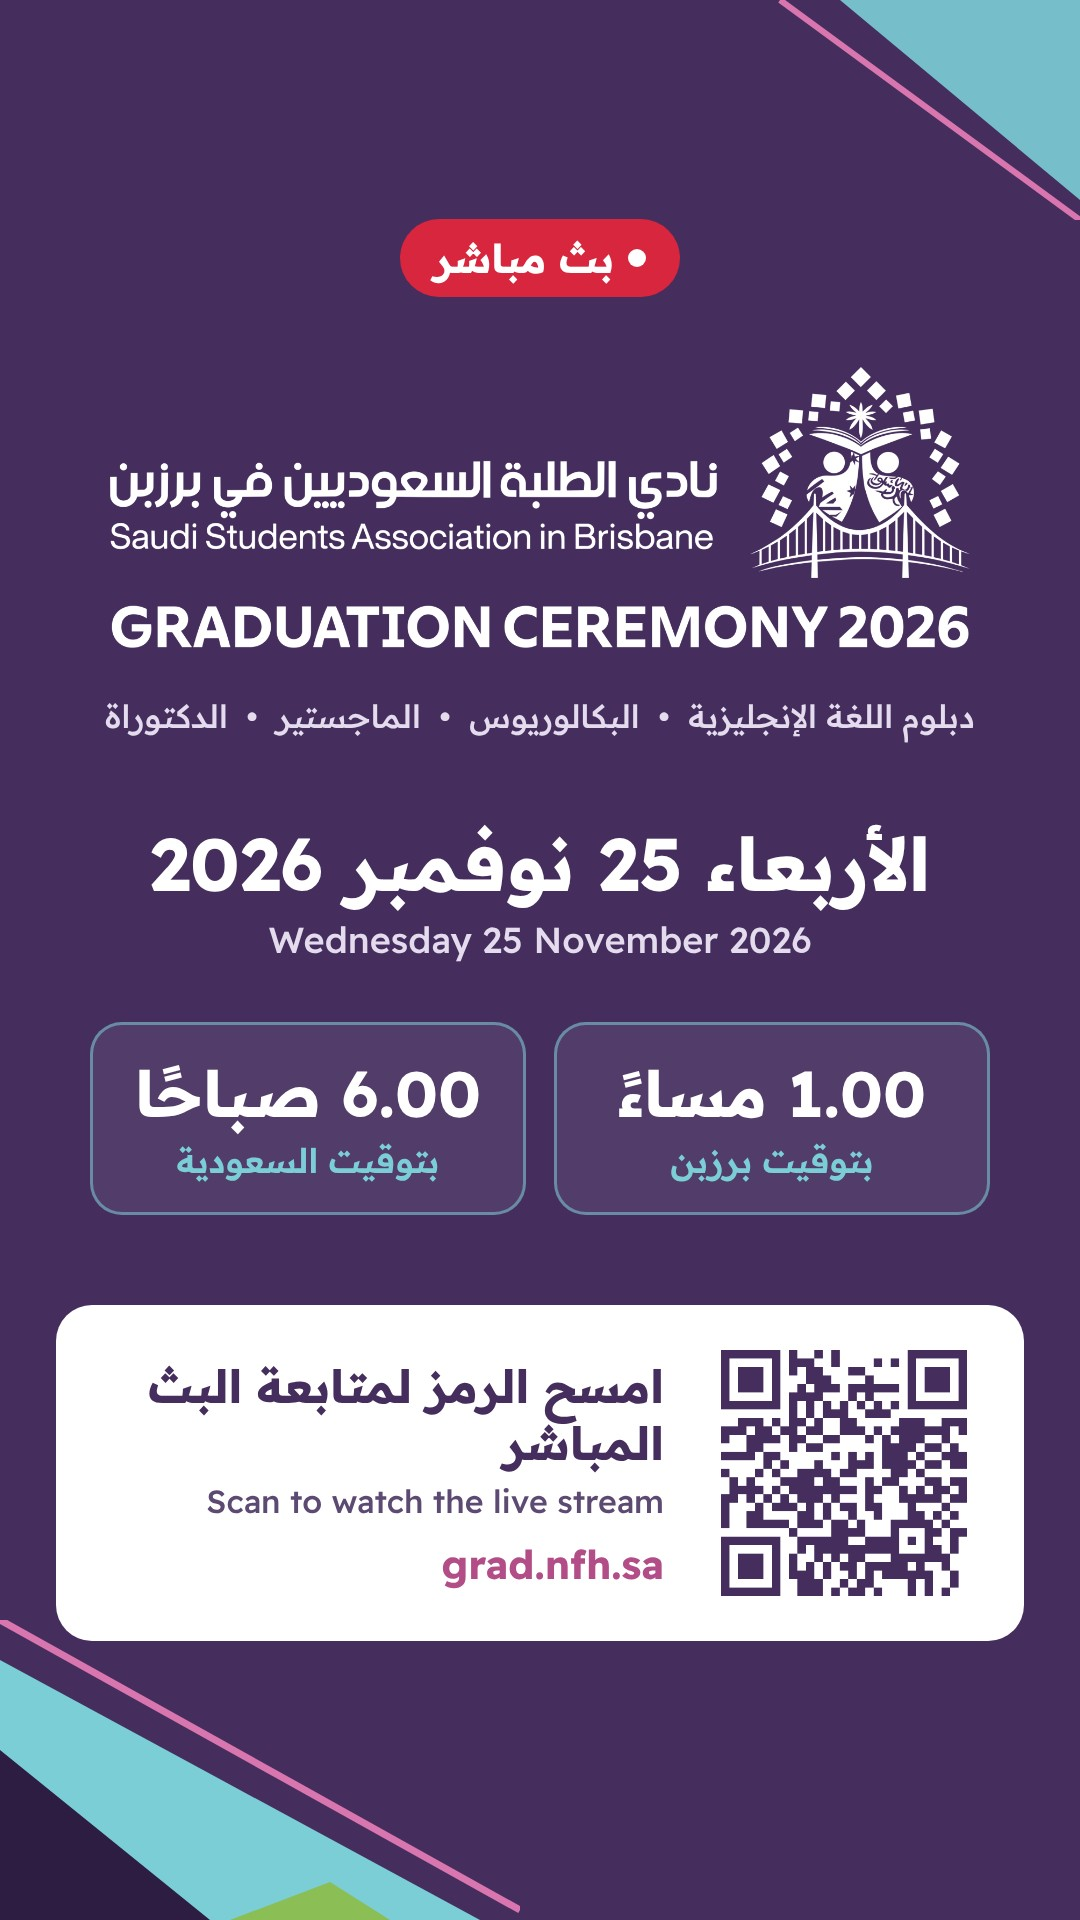
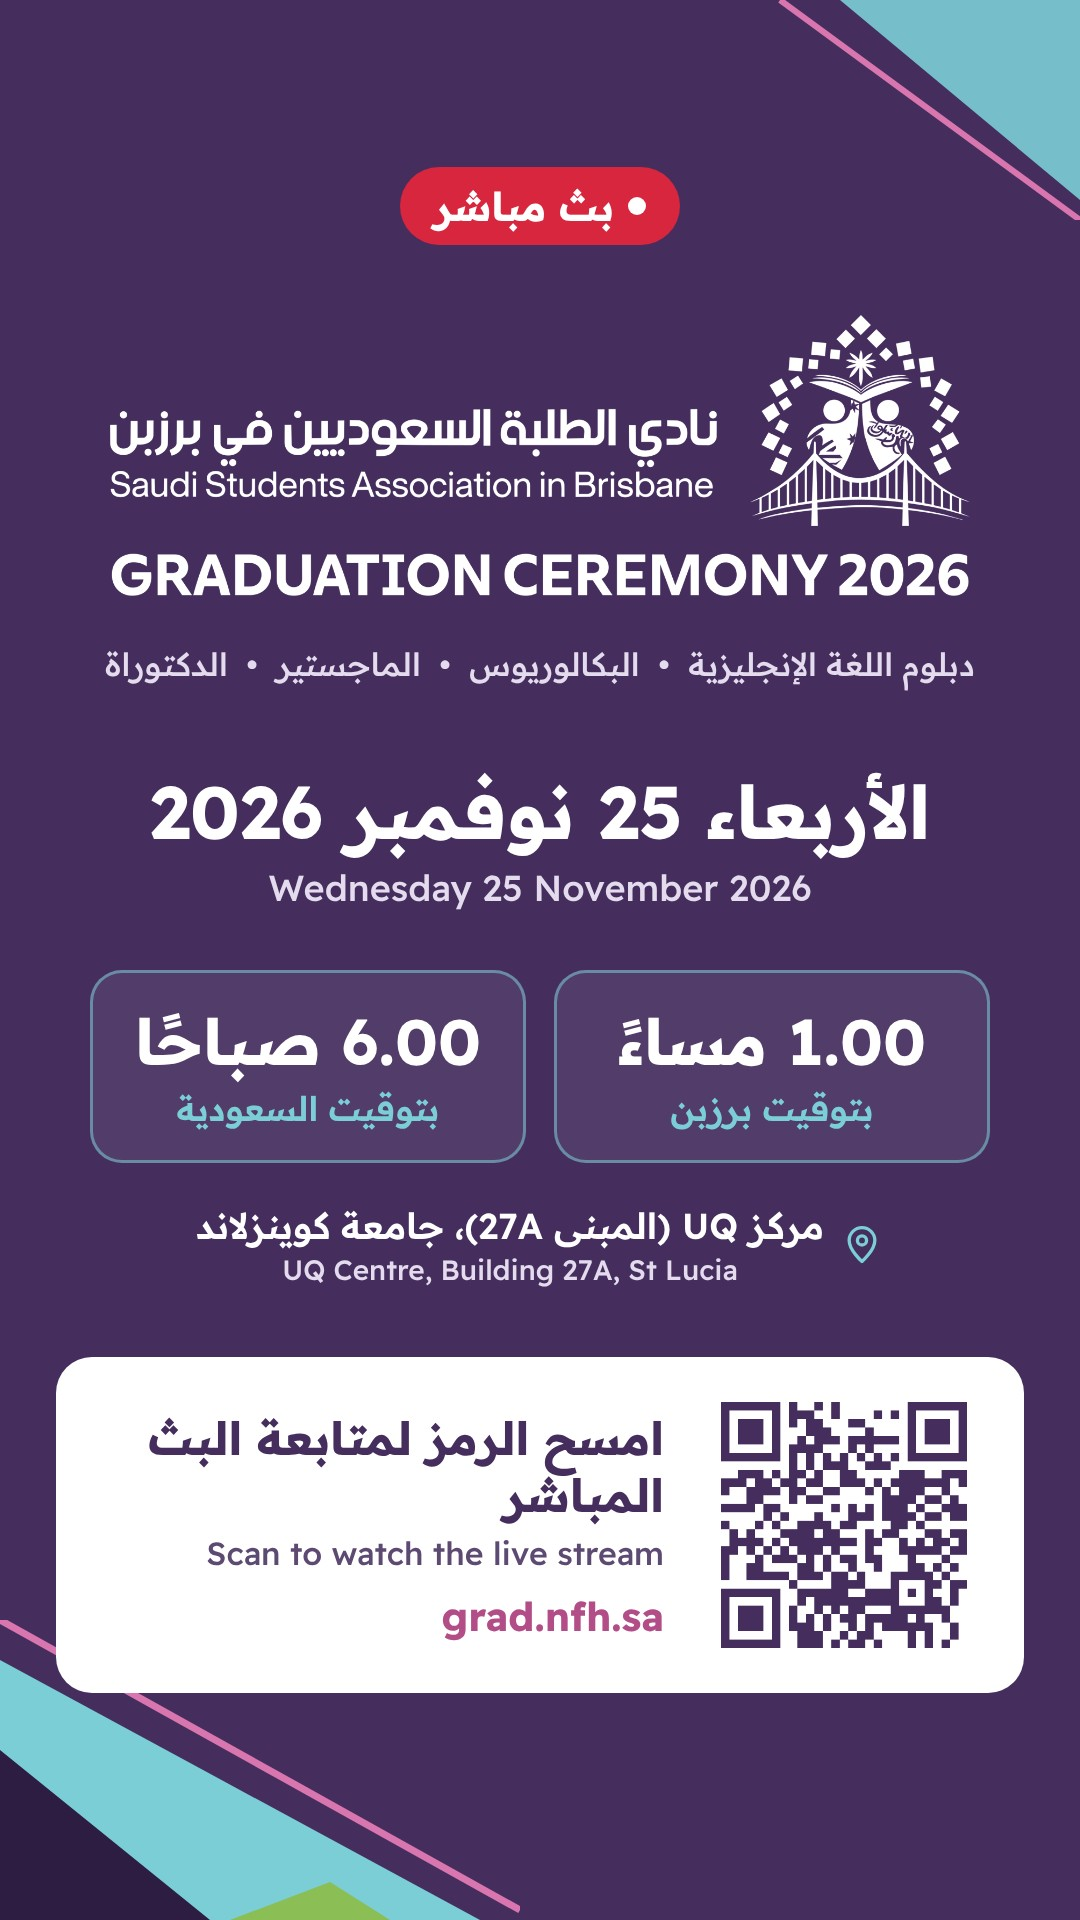
Add venue, map, FAQ venue, calendar location, university order

diff --git a/index.html b/index.html
@@ -4,7 +4,7 @@
 <meta charset="utf-8">
 <meta name="viewport" content="width=device-width, initial-scale=1">
 <title>حفل التخرج 2026 مباشر</title>
-<meta name="description" content="بث مباشر لحفل تخريج الطلبة السعوديين في برزبن، الأربعاء 25 نوفمبر 2026، 1.00 مساءً بتوقيت برزبن (6.00 صباحًا بتوقيت السعودية).">
+<meta name="description" content="حفل تخريج الطلبة السعوديين في برزبن، الأربعاء 25 نوفمبر 2026، 1.00 مساءً بتوقيت برزبن (6.00 صباحًا بتوقيت السعودية)، في مركز UQ بجامعة كوينزلاند، مع بث مباشر.">
 <meta name="theme-color" content="#452E5E">
 <link rel="canonical" href="https://grad.nfh.sa/">
 <link rel="icon" type="image/png" href="favicon.png">
@@ -82,6 +82,21 @@ span.watch{border:2px dashed rgba(123,206,213,.6);color:#fff}
 .act svg{width:26px;height:26px;flex:none;color:var(--teal)}
 .act b{display:block;font-size:17px;font-weight:600;line-height:1.3}
 .act .en{display:block;color:#E4DCEE;font-size:13px;text-align:right}
+.venue .wrap{padding-top:clamp(28px,4vw,48px);padding-bottom:clamp(28px,4vw,48px);display:grid;grid-template-columns:minmax(0,1fr) minmax(0,1.3fr);gap:24px 40px;align-items:center}
+.venue h2{margin:0 0 10px;font-size:clamp(26px,3.2vw,36px);line-height:1.2;display:flex;gap:12px;align-items:baseline;flex-wrap:wrap}
+.venue .vname{margin:0;font-size:22px;font-weight:700}
+.venue p{margin:2px 0 0}
+.venue .vtext>.en{display:block;text-align:right;margin-top:4px}
+.vacts{display:flex;gap:10px;flex-wrap:wrap;margin-top:16px}
+.vbtn{display:inline-flex;align-items:center;gap:8px;min-height:48px;padding:8px 18px;border-radius:12px;background:var(--ink);color:#fff;font-weight:700;text-decoration:none}
+.vbtn .en{color:#E4DCEE}
+.vbtn.alt{background:#fff;color:var(--ink);border:2px solid var(--ink)}
+.vbtn.alt .en{color:var(--soft)}
+.vbtn svg{width:20px;height:20px;flex:none}
+.vbtn:focus-visible{outline:3px solid var(--teal);outline-offset:2px}
+.map{position:relative;aspect-ratio:16/10;border-radius:16px;overflow:hidden;background:var(--teal-l);border:2px solid var(--teal-l)}
+.map iframe{position:absolute;inset:0;width:100%;height:100%;border:0}
+@media(max-width:800px){.venue .wrap{grid-template-columns:minmax(0,1fr)}.map{aspect-ratio:4/3}}
 .booth{background:var(--teal-l)}
 .booth .wrap{padding-top:28px;padding-bottom:28px;display:flex;justify-content:space-between;align-items:center;gap:16px 32px;flex-wrap:wrap}
 .booth h2{margin:0;font-size:clamp(24px,3vw,32px);line-height:1.2}
@@ -214,9 +229,25 @@ footer .names{display:flex;flex-direction:column}
 <span class="watch" id="watch"><span>سيُنشر رابط البث المباشر هنا قبل بدء الحفل</span><span class="en" lang="en">The live stream link will be posted here before the ceremony starts</span></span>
 <div class="acts">
 <a class="act" href="event.ics" download="saudi-graduation-2026.ics"><svg viewBox="0 0 24 24" fill="none" stroke="currentColor" stroke-width="1.8" stroke-linecap="round" stroke-linejoin="round" aria-hidden="true"><rect x="3" y="4.5" width="18" height="16" rx="2.5"/><path d="M3 9.5h18M8 2.5v4M16 2.5v4M12 12.5v5M9.5 15h5"/></svg><span><b>أضف إلى التقويم</b><span class="en" lang="en">Apple and Outlook calendar</span></span></a>
-<a class="act" href="https://calendar.google.com/calendar/render?action=TEMPLATE&amp;text=%D8%AD%D9%81%D9%84%20%D8%AA%D8%AE%D8%B1%D9%8A%D8%AC%20%D8%A7%D9%84%D8%B7%D9%84%D8%A8%D8%A9%20%D8%A7%D9%84%D8%B3%D8%B9%D9%88%D8%AF%D9%8A%D9%8A%D9%86%20%D9%81%D9%8A%20%D8%A8%D8%B1%D8%B2%D8%A8%D9%86%202026%20%7C%20Saudi%20Graduation%20Ceremony%202026&amp;dates=20261125T130000/20261125T143000&amp;ctz=Australia/Brisbane&amp;details=%D8%A7%D9%84%D8%A8%D8%AB%20%D8%A7%D9%84%D9%85%D8%A8%D8%A7%D8%B4%D8%B1%3A%20https%3A//grad.nfh.sa/%0A%D9%8A%D8%A8%D8%AF%D8%A3%201.00%20%D9%85%D8%B3%D8%A7%D8%A1%D9%8B%20%D8%A8%D8%AA%D9%88%D9%82%D9%8A%D8%AA%20%D8%A8%D8%B1%D8%B2%D8%A8%D9%86%20%286.00%20%D8%B5%D8%A8%D8%A7%D8%AD%D9%8B%D8%A7%20%D8%A8%D8%AA%D9%88%D9%82%D9%8A%D8%AA%20%D8%A7%D9%84%D8%B3%D8%B9%D9%88%D8%AF%D9%8A%D8%A9%29%0A%0ALive%20stream%3A%20https%3A//grad.nfh.sa/%0AStarts%201.00%20pm%20Brisbane%20time%20%286.00%20am%20Saudi%20time%29&amp;location=Brisbane%2C%20Queensland%20%7C%20https%3A//grad.nfh.sa/" target="_blank" rel="noopener"><svg viewBox="0 0 24 24" fill="none" stroke="currentColor" stroke-width="1.8" stroke-linecap="round" stroke-linejoin="round" aria-hidden="true"><rect x="3" y="4.5" width="18" height="16" rx="2.5"/><path d="M3 9.5h18M8 2.5v4M16 2.5v4M8 13.5h2M14 13.5h2M8 17h2"/></svg><span><b>تقويم Google</b><span class="en" lang="en">Google Calendar</span></span></a>
+<a class="act" href="https://calendar.google.com/calendar/render?action=TEMPLATE&amp;text=%D8%AD%D9%81%D9%84%20%D8%AA%D8%AE%D8%B1%D9%8A%D8%AC%20%D8%A7%D9%84%D8%B7%D9%84%D8%A8%D8%A9%20%D8%A7%D9%84%D8%B3%D8%B9%D9%88%D8%AF%D9%8A%D9%8A%D9%86%20%D9%81%D9%8A%20%D8%A8%D8%B1%D8%B2%D8%A8%D9%86%202026%20%7C%20Saudi%20Graduation%20Ceremony%202026&amp;dates=20261125T130000/20261125T143000&amp;ctz=Australia/Brisbane&amp;details=%D8%A7%D9%84%D9%85%D9%83%D8%A7%D9%86%3A%20%D9%85%D8%B1%D9%83%D8%B2%20UQ%20%28%D8%A7%D9%84%D9%85%D8%A8%D9%86%D9%89%2027A%29%D8%8C%20%D8%AC%D8%A7%D9%85%D8%B9%D8%A9%20%D9%83%D9%88%D9%8A%D9%86%D8%B2%D9%84%D8%A7%D9%86%D8%AF%0A%D8%A7%D9%84%D8%A8%D8%AB%20%D8%A7%D9%84%D9%85%D8%A8%D8%A7%D8%B4%D8%B1%3A%20https%3A//grad.nfh.sa/%0A%D9%8A%D8%A8%D8%AF%D8%A3%201.00%20%D9%85%D8%B3%D8%A7%D8%A1%D9%8B%20%D8%A8%D8%AA%D9%88%D9%82%D9%8A%D8%AA%20%D8%A8%D8%B1%D8%B2%D8%A8%D9%86%20%286.00%20%D8%B5%D8%A8%D8%A7%D8%AD%D9%8B%D8%A7%20%D8%A8%D8%AA%D9%88%D9%82%D9%8A%D8%AA%20%D8%A7%D9%84%D8%B3%D8%B9%D9%88%D8%AF%D9%8A%D8%A9%29%0A%0AVenue%3A%20UQ%20Centre%20%28Building%2027A%29%2C%20St%20Lucia%0ALive%20stream%3A%20https%3A//grad.nfh.sa/%0AStarts%201.00%20pm%20Brisbane%20time%20%286.00%20am%20Saudi%20time%29&amp;location=UQ%20Centre%20%28Building%2027A%29%2C%20Union%20Road%2C%20The%20University%20of%20Queensland%2C%20St%20Lucia%20QLD%204067" target="_blank" rel="noopener"><svg viewBox="0 0 24 24" fill="none" stroke="currentColor" stroke-width="1.8" stroke-linecap="round" stroke-linejoin="round" aria-hidden="true"><rect x="3" y="4.5" width="18" height="16" rx="2.5"/><path d="M3 9.5h18M8 2.5v4M16 2.5v4M8 13.5h2M14 13.5h2M8 17h2"/></svg><span><b>تقويم Google</b><span class="en" lang="en">Google Calendar</span></span></a>
 <button class="act" type="button" id="share"><svg viewBox="0 0 24 24" fill="none" stroke="currentColor" stroke-width="1.8" stroke-linecap="round" stroke-linejoin="round" aria-hidden="true"><circle cx="18" cy="5" r="2.5"/><circle cx="6" cy="12" r="2.5"/><circle cx="18" cy="19" r="2.5"/><path d="M8.2 10.8l7.6-4.4M8.2 13.2l7.6 4.4"/></svg><span><b id="shareAr">شارك الرابط</b><span class="en" lang="en" id="shareEn">Share the link</span></span></button>
 </div>
+</div>
+</section>
+
+<section class="venue" aria-labelledby="venueTitle">
+<div class="wrap">
+<div class="vtext">
+<h2 id="venueTitle">مكان الحفل <span class="en" lang="en">Venue</span></h2>
+<p class="vname">مركز UQ (المبنى 27A)</p>
+<p>شارع Union Road، جامعة كوينزلاند، سانت لوسيا، برزبن</p>
+<span class="en" lang="en">UQ Centre (Building 27A), Union Road, The University of Queensland, St Lucia QLD 4067</span>
+<div class="vacts">
+<a class="vbtn" href="https://www.google.com/maps/search/?api=1&amp;query=UQ%20Centre%20Building%20(27A)%2C%20St%20Lucia%20QLD%204067" target="_blank" rel="noopener"><svg viewBox="0 0 24 24" fill="none" stroke="currentColor" stroke-width="1.8" stroke-linecap="round" stroke-linejoin="round" aria-hidden="true"><path d="M12 21s-7-6.2-7-11.5A7 7 0 0 1 19 9.5C19 14.8 12 21 12 21z"/><circle cx="12" cy="9.5" r="2.5"/></svg>خرائط Google <span class="en" lang="en">Google Maps</span></a>
+<a class="vbtn alt" href="https://maps.apple.com/?q=UQ%20Centre%20Building%2027A&amp;address=Union%20Road%2C%20St%20Lucia%20QLD%204067" target="_blank" rel="noopener"><svg viewBox="0 0 24 24" fill="none" stroke="currentColor" stroke-width="1.8" stroke-linecap="round" stroke-linejoin="round" aria-hidden="true"><path d="M12 21s-7-6.2-7-11.5A7 7 0 0 1 19 9.5C19 14.8 12 21 12 21z"/><circle cx="12" cy="9.5" r="2.5"/></svg>خرائط Apple <span class="en" lang="en">Apple Maps</span></a>
+</div>
+</div>
+<div class="map"><iframe title="خريطة مكان الحفل: مركز UQ في جامعة كوينزلاند" src="https://www.google.com/maps?q=UQ%20Centre%20Building%20(27A)%2C%20St%20Lucia%20QLD%204067&amp;z=16&amp;output=embed" loading="lazy" referrerpolicy="no-referrer-when-downgrade"></iframe></div>
 </div>
 </section>
 
@@ -246,6 +277,7 @@ footer .names{display:flex;flex-direction:column}
 <div><h2 id="faqTitle">أسئلة شائعة</h2></div>
 <div class="en" lang="en"><b>Questions</b>Common questions</div>
 </div>
+<details><summary><span>أين يقام الحفل؟<span class="en" lang="en">Where is the ceremony?</span></span></summary><div class="ans"><p>في مركز UQ (المبنى 27A)، شارع Union Road، جامعة كوينزلاند، سانت لوسيا. <a href="https://www.google.com/maps/search/?api=1&amp;query=UQ%20Centre%20Building%20(27A)%2C%20St%20Lucia%20QLD%204067" target="_blank" rel="noopener">افتح الموقع في خرائط Google</a></p><span class="en" lang="en">UQ Centre (Building 27A), Union Road, The University of Queensland, St Lucia QLD 4067.</span></div></details>
 <details><summary><span>متى يبدأ الحفل؟<span class="en" lang="en">When does it start?</span></span></summary><div class="ans"><p>الأربعاء 25 نوفمبر 2026، الساعة 1.00 مساءً بتوقيت برزبن (6.00 صباحًا بتوقيت السعودية). يبدأ البث قبل الحفل بنصف ساعة تقريبًا.</p><span class="en" lang="en">Wednesday 25 November 2026, 1.00 pm Brisbane time (6.00 am Saudi time). The stream starts about 30 minutes earlier.</span></div></details>
 <details><summary><span>كيف أشاهد البث؟<span class="en" lang="en">How do I watch?</span></span></summary><div class="ans"><p>يظهر البث في أعلى هذه الصفحة عند بدئه، ويمكن مشاهدته على يوتيوب أيضًا. لا تحتاج إلى حساب أو تطبيق.</p><span class="en" lang="en">The video appears at the top of this page when it starts, and on YouTube. No account or app needed.</span></div></details>
 <details><summary><span>البث لا يعمل، ماذا أفعل؟<span class="en" lang="en">The stream is not working</span></span></summary><div class="ans"><p>حدّث الصفحة، أو افتح البث مباشرة على يوتيوب، أو استخدم رابط Zoom الاحتياطي الظاهر تحت البث.</p><span class="en" lang="en">Refresh the page, open it on YouTube, or use the Zoom backup link under the video.</span></div></details>

diff --git a/frames.html b/frames.html
@@ -144,16 +144,20 @@ footer a{color:var(--ink)}
 <label class="lbl" for="uni">الجامعة <span class="en" lang="en">University (graduate frames only)</span></label>
 <select id="uni">
 <option value="">بدون</option>
-<option value="0">جامعة كوينزلاند</option>
-<option value="1">جامعة كوينزلاند للتكنولوجيا</option>
-<option value="2">جامعة غريفيث</option>
-<option value="3">الجامعة الكاثوليكية الأسترالية</option>
-<option value="4">جامعة جنوب كوينزلاند</option>
-<option value="5">جامعة صن شاين كوست</option>
-<option value="6">جامعة سنترال كوينزلاند</option>
-<option value="7">جامعة جيمس كوك</option>
-<option value="8">جامعة بوند</option>
-<option value="9">جامعة ساوثرن كروس</option>
+<optgroup label="الجامعات الرئيسية">
+<option value="0">جامعة كوينزلاند (UQ)</option>
+<option value="1">جامعة كوينزلاند للتكنولوجيا (QUT)</option>
+<option value="2">جامعة غريفيث (Griffith)</option>
+<option value="3">جامعة جنوب كوينزلاند (UniSQ)</option>
+<option value="4">جامعة سنترال كوينزلاند (CQU)</option>
+</optgroup>
+<optgroup label="جامعات أخرى">
+<option value="5">الجامعة الكاثوليكية الأسترالية (ACU)</option>
+<option value="6">جامعة صن شاين كوست (UniSC)</option>
+<option value="7">جامعة جيمس كوك (JCU)</option>
+<option value="8">جامعة بوند (Bond)</option>
+<option value="9">جامعة ساوثرن كروس (SCU)</option>
+</optgroup>
 </select>
 </div>
 </div>
@@ -200,7 +204,7 @@ const VARIANTS = {
   proud: { title: 'فخورين بك', sub: 'So proud of you!' },
   class: { title: 'Class of 2026', sub: '', ltr: true }
 };
-const UNIS = [['جامعة كوينزلاند', 'The University of Queensland'], ['جامعة كوينزلاند للتكنولوجيا', 'Queensland University of Technology'], ['جامعة غريفيث', 'Griffith University'], ['الجامعة الكاثوليكية الأسترالية', 'Australian Catholic University'], ['جامعة جنوب كوينزلاند', 'University of Southern Queensland'], ['جامعة صن شاين كوست', 'University of the Sunshine Coast'], ['جامعة سنترال كوينزلاند', 'CQUniversity'], ['جامعة جيمس كوك', 'James Cook University'], ['جامعة بوند', 'Bond University'], ['جامعة ساوثرن كروس', 'Southern Cross University']];
+const UNIS = [['جامعة كوينزلاند', 'The University of Queensland'], ['جامعة كوينزلاند للتكنولوجيا', 'Queensland University of Technology'], ['جامعة غريفيث', 'Griffith University'], ['جامعة جنوب كوينزلاند', 'University of Southern Queensland'], ['جامعة سنترال كوينزلاند', 'CQUniversity'], ['الجامعة الكاثوليكية الأسترالية', 'Australian Catholic University'], ['جامعة صن شاين كوست', 'University of the Sunshine Coast'], ['جامعة جيمس كوك', 'James Cook University'], ['جامعة بوند', 'Bond University'], ['جامعة ساوثرن كروس', 'Southern Cross University']];
 const GRAD_FRAMES = ['grad_m', 'grad_f'];
 const DEGREES = [['دبلوم اللغة الإنجليزية', 'English Diploma'], ['البكالوريوس', "Bachelor's"], ['الماجستير', "Master's"], ['الدكتوراة', 'PhD']];
 // Frame parts are kept small: logo badge at the top, one compact card at the bottom (under 20% of the photo)
